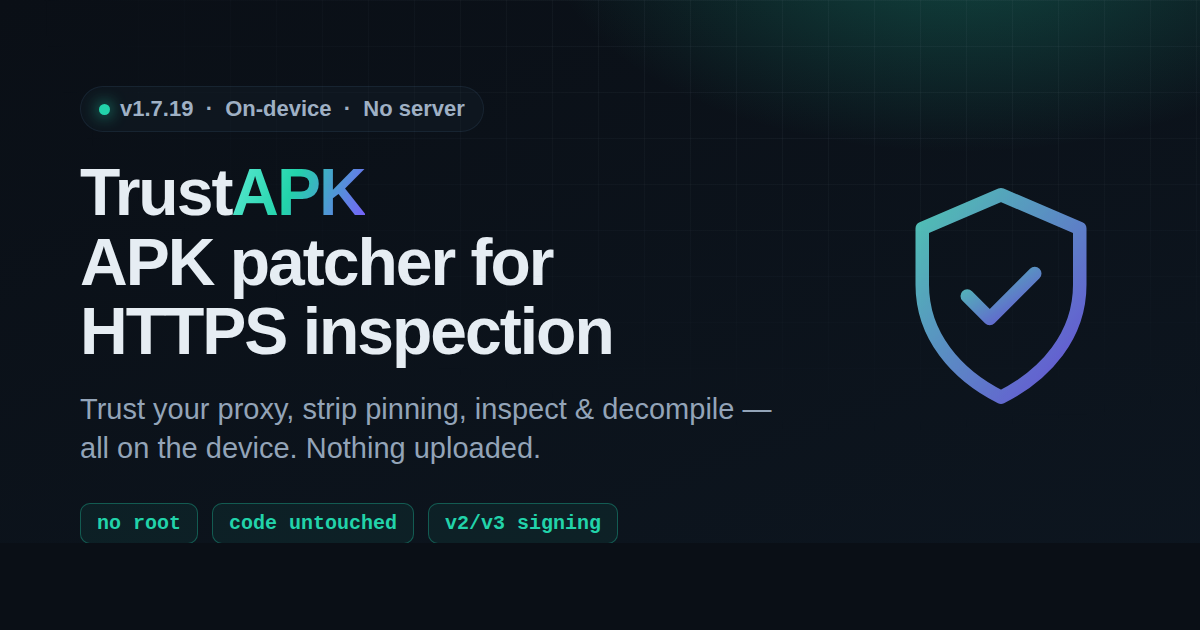
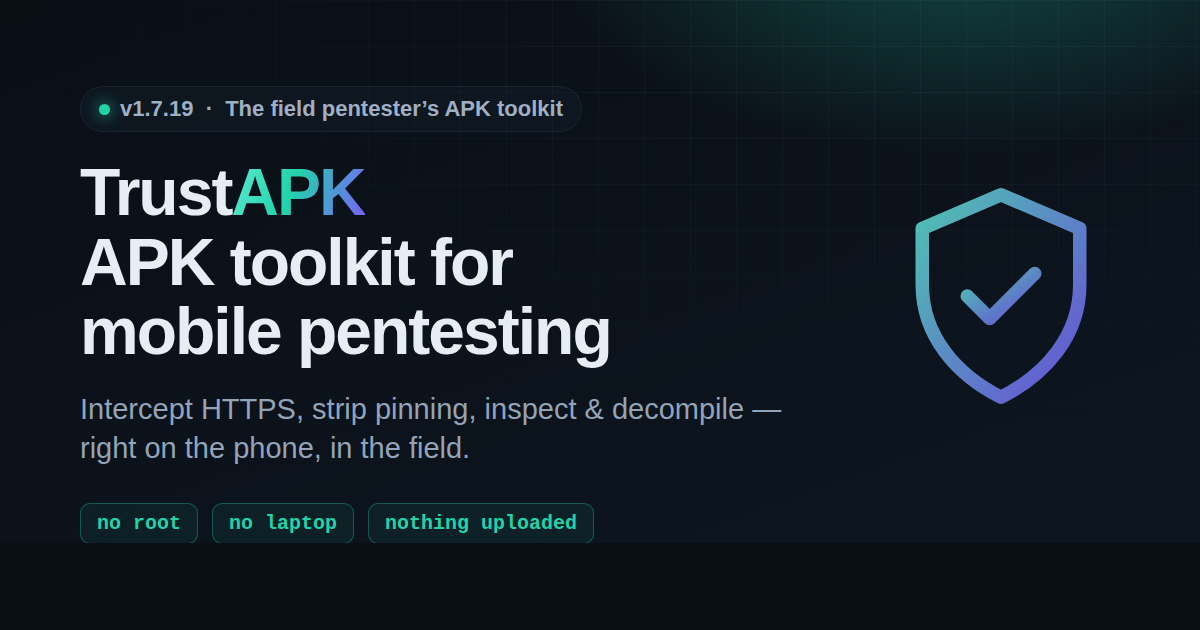
Sharpen positioning toward mobile app pentesting
- Rework hero headline/subtitle to lead with on-device mobile pentesting
- Add a "Who it's for" section (pentesters, bug bounty, researchers, red
  teams, QA) with four concrete engagement use-cases
- Update nav, SEO title/description/keywords, OG/Twitter tags and JSON-LD
- Regenerate the OG banner with the pentest headline
- Make dark the firm default theme (light only via the toggle)

Claude-Session: https://claude.ai/code/session_01N8zJ1BxABzFxNu5oYedC5G

diff --git a/index.html b/index.html
@@ -5,9 +5,9 @@
     <meta name="viewport" content="width=device-width, initial-scale=1.0" />
     <meta name="theme-color" content="#0a0f16" />
 
-    <title>TrustAPK — On-device Android APK patcher for HTTPS inspection</title>
-    <meta name="description" content="TrustAPK is a fully on-device Android APK patcher for HTTPS inspection, app analysis and reverse-engineering. Trust your proxy's CA, strip certificate pinning, inspect and decompile — no server, no root, nothing uploaded." />
-    <meta name="keywords" content="TrustAPK, APK patcher, HTTPS inspection, certificate pinning, mitmproxy, Burp, Reqable, Android reverse engineering, on-device, no root, dex decompiler, smali, jadx" />
+    <title>TrustAPK — On-device APK toolkit for mobile app pentesting</title>
+    <meta name="description" content="TrustAPK is an on-device Android APK toolkit for mobile app pentesting: intercept HTTPS, strip certificate pinning, inspect endpoints and secrets, and decompile to Java — right on the phone. No server, no root, no laptop, nothing uploaded." />
+    <meta name="keywords" content="TrustAPK, mobile pentesting, Android pentest, APK patcher, HTTPS inspection, certificate pinning bypass, Frida gadget, unpinning, mitmproxy, Burp Suite, Reqable, bug bounty, mobile security, reverse engineering, on-device, no root, dex decompiler, smali, jadx" />
     <meta name="author" content="Israel Cohen" />
     <link rel="canonical" href="https://il90il90.github.io/TrustApk-Website/" />
 
@@ -18,8 +18,8 @@
     <!-- Open Graph -->
     <meta property="og:type" content="website" />
     <meta property="og:site_name" content="TrustAPK" />
-    <meta property="og:title" content="TrustAPK — On-device Android APK patcher for HTTPS inspection" />
-    <meta property="og:description" content="Trust your proxy's CA, strip certificate pinning, inspect and decompile Android apps — all on-device, no server, nothing uploaded. The app's own code is never modified." />
+    <meta property="og:title" content="TrustAPK — On-device APK toolkit for mobile app pentesting" />
+    <meta property="og:description" content="Intercept HTTPS, strip certificate pinning, inspect endpoints and secrets, and decompile Android apps for a pentest — all on the phone. No server, no root, no laptop. The app's own code is never modified." />
     <meta property="og:url" content="https://il90il90.github.io/TrustApk-Website/" />
     <meta property="og:image" content="https://il90il90.github.io/TrustApk-Website/og-image.png" />
     <meta property="og:image:width" content="1200" />
@@ -27,8 +27,8 @@
 
     <!-- Twitter -->
     <meta name="twitter:card" content="summary_large_image" />
-    <meta name="twitter:title" content="TrustAPK — On-device Android APK patcher for HTTPS inspection" />
-    <meta name="twitter:description" content="Trust your proxy's CA, strip certificate pinning, inspect and decompile Android apps — all on-device, no server, nothing uploaded." />
+    <meta name="twitter:title" content="TrustAPK — On-device APK toolkit for mobile app pentesting" />
+    <meta name="twitter:description" content="Intercept HTTPS, strip pinning, inspect and decompile Android apps for a pentest — all on the phone. No server, no root, no laptop." />
     <meta name="twitter:image" content="https://il90il90.github.io/TrustApk-Website/og-image.png" />
 
     <!-- Fonts -->
@@ -39,10 +39,10 @@
     <!-- No-flash theme init: set dark/light class before paint -->
     <script>
       (function () {
+        // Dark is the default aesthetic; light only when the visitor toggled it.
         try {
           var stored = localStorage.getItem('trustapk-theme');
-          var prefersLight = window.matchMedia('(prefers-color-scheme: light)').matches;
-          var theme = stored || (prefersLight ? 'light' : 'dark');
+          var theme = stored || 'dark';
           document.documentElement.classList.toggle('dark', theme !== 'light');
         } catch (e) {
           document.documentElement.classList.add('dark');
@@ -58,7 +58,7 @@
         "name": "TrustAPK",
         "operatingSystem": "Android 8.0+",
         "applicationCategory": "SecurityApplication",
-        "description": "A fully on-device Android APK patcher for HTTPS inspection, app analysis and reverse-engineering — no server, nothing uploaded.",
+        "description": "An on-device Android APK toolkit for mobile app pentesting — intercept HTTPS, strip certificate pinning, inspect endpoints and secrets, and decompile to Java. No server, no root, nothing uploaded.",
         "softwareVersion": "1.7.19",
         "offers": { "@type": "Offer", "price": "0", "priceCurrency": "USD" },
         "author": { "@type": "Person", "name": "Israel Cohen", "url": "https://t.me/IsraelCohen" }

diff --git a/src/components/Audience.jsx b/src/components/Audience.jsx
@@ -1,0 +1,70 @@
+import { Section, Kicker } from './Section.jsx'
+import { Shield, Search, Unlock, Cpu } from './Icons.jsx'
+
+const roles = ['Pentesters', 'Bug bounty hunters', 'Mobile security researchers', 'Red teams', 'App QA & AppSec']
+
+const cases = [
+  {
+    icon: Unlock,
+    title: 'Intercept a target on engagement',
+    text: 'Make a client app’s HTTPS readable in Burp / mitmproxy without touching the device’s system CA store — bundle your CA inside that one app.',
+  },
+  {
+    icon: Shield,
+    title: 'Beat pinning on a bounty target',
+    text: 'Strip network-security-config pinning, and drop a Frida gadget with an unpinning script for apps that pin in native / OkHttp code — no desktop Frida attached.',
+  },
+  {
+    icon: Search,
+    title: 'Recon endpoints, secrets & code',
+    text: 'Pull every host and URL, surface API keys and tokens (redacted), and decompile the dex to smali or Java for a static review — all on-device.',
+  },
+  {
+    icon: Cpu,
+    title: 'Work on locked-down / MDM devices',
+    text: 'Where installing a system CA is blocked or too noisy, per-app CA trust and on-device re-signing let you test without a rooted phone or a laptop in the room.',
+  },
+]
+
+export default function Audience() {
+  return (
+    <Section id="pentest">
+      <div className="text-center max-w-2xl mx-auto">
+        <Kicker>Who it's for</Kicker>
+        <h2 className="mt-3 text-3xl sm:text-4xl font-bold tracking-tight">
+          Built for the field
+        </h2>
+        <p className="mt-4 text-muted-c">
+          A pentester’s intercept-and-analyse workflow, packed into one app that runs entirely on
+          the phone in your hand.
+        </p>
+        <div className="mt-6 flex flex-wrap justify-center gap-2">
+          {roles.map((r) => (
+            <span key={r} className="rounded-full border border-brand/30 bg-brand/[0.06] px-3.5 py-1.5 text-sm text-brand">
+              {r}
+            </span>
+          ))}
+        </div>
+      </div>
+
+      <div className="mt-12 grid sm:grid-cols-2 gap-5">
+        {cases.map(({ icon: Icon, title, text }) => (
+          <div key={title} className="flex gap-4 rounded-2xl border border-base bg-panel p-6 hover:border-brand/40 transition-colors">
+            <span className="flex-shrink-0 inline-flex h-11 w-11 items-center justify-center rounded-xl bg-brand/10 text-brand">
+              <Icon width={22} height={22} />
+            </span>
+            <div>
+              <h3 className="font-semibold">{title}</h3>
+              <p className="mt-2 text-sm text-muted-c leading-relaxed">{text}</p>
+            </div>
+          </div>
+        ))}
+      </div>
+
+      <p className="mt-8 text-center text-xs text-muted-c/80 max-w-2xl mx-auto">
+        For authorised testing only — use TrustAPK on apps you own or have explicit written permission
+        to assess. Everything runs locally; no APK ever leaves the device.
+      </p>
+    </Section>
+  )
+}

diff --git a/src/components/Hero.jsx b/src/components/Hero.jsx
@@ -1,7 +1,7 @@
 import { Download, ArrowDown, Github, Check } from './Icons.jsx'
 import { VERSION, DOWNLOAD_URL, SOURCE_REPO } from '../lib/constants.js'
 
-const chips = ['No server', 'No root', 'Nothing uploaded', 'Code untouched']
+const chips = ['No server', 'No root', 'No laptop', 'Nothing uploaded']
 
 export default function Hero() {
   return (
@@ -15,18 +15,18 @@ export default function Hero() {
       <div className="relative mx-auto max-w-6xl px-4 text-center">
         <div className="animate-fade-up inline-flex items-center gap-2 rounded-full border border-base bg-panel px-3 py-1 text-xs text-muted-c mb-6">
           <span className="h-2 w-2 rounded-full bg-brand animate-pulse-glow" />
-          v{VERSION} · Made with ❤ from Israel
+          v{VERSION} · The field pentester's APK toolkit
         </div>
 
         <h1 className="animate-fade-up text-4xl sm:text-6xl font-extrabold tracking-tight leading-[1.05]">
-          On-device Android <span className="text-gradient">APK patcher</span>
-          <br className="hidden sm:block" /> for HTTPS inspection
+          On-device APK toolkit
+          <br className="hidden sm:block" /> for <span className="text-gradient">mobile app pentesting</span>
         </h1>
 
         <p className="animate-fade-up mx-auto mt-6 max-w-2xl text-base sm:text-lg text-muted-c">
-          Take an app that's already on your phone, make its HTTPS traffic readable by your
-          proxy, strip certificate pinning, inspect and decompile it — then re-sign and install.
-          <span className="text-base-c font-medium"> All locally on the device. Nothing is uploaded, ever.</span>
+          Intercept any app's HTTPS, strip certificate pinning, inspect endpoints and secrets, and
+          decompile to Java — right on the phone, in the field.
+          <span className="text-base-c font-medium"> No server, no root, no laptop. Nothing is uploaded, ever.</span>
         </p>
 
         <div className="animate-fade-up mt-8 flex flex-col sm:flex-row items-center justify-center gap-3">

diff --git a/src/App.jsx b/src/App.jsx
@@ -1,6 +1,7 @@
 import Header from './components/Header.jsx'
 import Hero from './components/Hero.jsx'
 import ValueProps from './components/ValueProps.jsx'
+import Audience from './components/Audience.jsx'
 import HowItWorks from './components/HowItWorks.jsx'
 import Demo from './components/Demo.jsx'
 import Features from './components/Features.jsx'
@@ -20,6 +21,7 @@ export default function App() {
       <main>
         <Hero />
         <ValueProps />
+        <Audience />
         <HowItWorks />
         <Demo />
         <Features />

diff --git a/src/components/Header.jsx b/src/components/Header.jsx
@@ -3,10 +3,10 @@ import { Shield, Github, Sun, Moon, Download, Menu, Close } from './Icons.jsx'
 import { SOURCE_REPO, DOWNLOAD_URL } from '../lib/constants.js'
 
 const links = [
+  { href: '#pentest', label: 'Who it’s for' },
   { href: '#how', label: 'How it works' },
   { href: '#demo', label: 'Demo' },
   { href: '#features', label: 'Features' },
-  { href: '#screens', label: 'Screens' },
   { href: '#download', label: 'Download' },
   { href: '#contact', label: 'Contact' },
 ]
